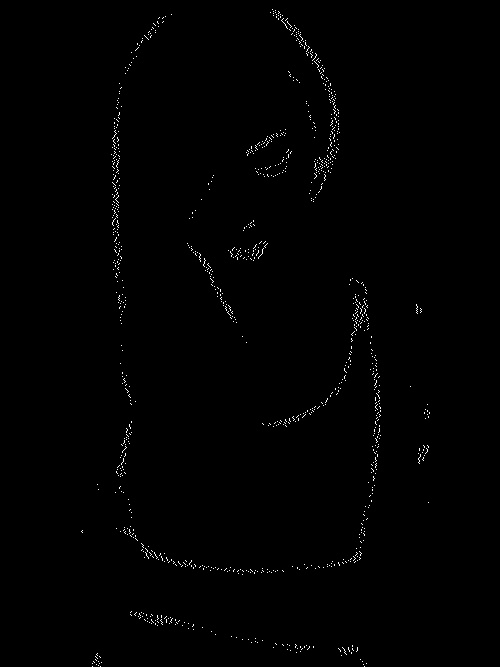
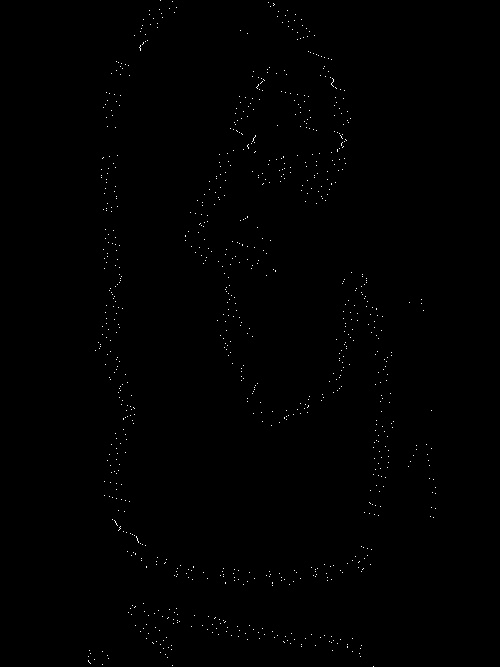
Wireframe argument added.

diff --git a/src/main/java/esz/dev/delaunay/Delaunay.java b/src/main/java/esz/dev/delaunay/Delaunay.java
@@ -13,12 +13,17 @@ public class Delaunay {
 
     private Arguments arguments;
 
+    @FunctionalInterface
+    private interface ImageCreator {
+        public void createImage(Mat image, Point[] vertices);
+    };
+
     public Delaunay(Arguments arguments) {
         this.arguments = arguments;
     }
 
     private Mat createEmptyImage(Size size, int type) {
-        return Mat.zeros(size, type);
+        return new Mat(size, type, new Scalar(255, 255, 255));
     }
 
     private Mat createEmptyGrayscaleImage(Size size) {
@@ -85,13 +90,14 @@ public class Delaunay {
         }
     }
 
-    private void drawEdgePoints(ArrayList<Point> edgePoints, Size size, boolean draw) {
-        if (draw) {
+    private void drawEdgePoints(ArrayList<Point> edgePoints, Size size) {
+        if (arguments.isShowEdgePoints()) {
             Mat image = createEmptyGrayscaleImage(size);
+            image.setTo(new Scalar(0));
             edgePoints.forEach(point -> {
                 image.put((int)point.x, (int)point.y, 255);
             });
-            Imgcodecs.imwrite("res/edgepoints.jpg", image);
+            Imgcodecs.imwrite(arguments.getOutputEdgePoints(), image);
         }
     }
 
@@ -140,7 +146,7 @@ public class Delaunay {
             triangles = goodTriangles;
         }
 
-        if (arguments.isDeleteSuperTriangle()) {
+        if (arguments.isDeleteBorder()) {
             ArrayList<Triangle> superTriangle = createInitialSuperTriangle(imageSize);
             triangles.removeIf(triangle -> {
                 for (Triangle st : superTriangle) {
@@ -157,36 +163,74 @@ public class Delaunay {
         return triangles;
     }
 
-    private Mat createGrayScaleImageFromTriangles(ArrayList<Triangle> triangles, Mat originalImage) {
-        Mat image = createEmptyGrayscaleImage(originalImage.size());
+    private Mat createImageFormTriangles(ArrayList<Triangle> triangles, Mat originalImage, ImageCreator imageCreator) {
+        Mat image = createEmptyImage(originalImage.size(), originalImage.type());
         triangles.forEach(triangle -> {
-            MatOfPoint matOfPoint = new MatOfPoint();
             Point[] vertices = triangle.getVertices();
             for (int i = 0; i < vertices.length; ++i) {
                 vertices[i] = new Point(vertices[i].y, vertices[i].x);
             }
-            matOfPoint.fromArray(vertices);
-            double[] color = originalImage.get((int) ((vertices[0].y + vertices[1].y + vertices[2].y) / 3.0),
-                    (int) ((vertices[0].x + vertices[1].x + vertices[2].x) / 3.0));
-            Imgproc.fillConvexPoly(image, matOfPoint, new Scalar(color[0]), 8, 0);
+            imageCreator.createImage(image, vertices);
         });
         return image;
     }
 
-    private Mat createColorImageFromTriangles(ArrayList<Triangle> triangles, Mat originalImage) {
-        Mat image = createEmptyImage(originalImage.size(), originalImage.type());
-        triangles.forEach(triangle -> {
+    private Mat createFinalImage(ArrayList<Triangle> triangles, Mat originalImage) {
+
+        ImageCreator colorImageCreator = (Mat image, Point[] vertices) -> {
             MatOfPoint matOfPoint = new MatOfPoint();
-            Point[] vertices = triangle.getVertices();
-            for (int i = 0; i < vertices.length; ++i) {
-                vertices[i] = new Point(vertices[i].y, vertices[i].x);
-            }
             matOfPoint.fromArray(vertices);
             double[] color = originalImage.get((int) ((vertices[0].y + vertices[1].y + vertices[2].y) / 3.0),
                     (int) ((vertices[0].x + vertices[1].x + vertices[2].x) / 3.0));
             Imgproc.fillConvexPoly(image, matOfPoint, new Scalar(color[0], color[1], color[2]), 8, 0);
-        });
-        return image;
+        };
+
+        ImageCreator grayScaleImageCreator = (Mat image, Point[] vertices) -> {
+            MatOfPoint matOfPoint = new MatOfPoint();
+            matOfPoint.fromArray(vertices);
+            double[] color = originalImage.get((int) ((vertices[0].y + vertices[1].y + vertices[2].y) / 3.0),
+                    (int) ((vertices[0].x + vertices[1].x + vertices[2].x) / 3.0));
+            Imgproc.fillConvexPoly(image, matOfPoint, new Scalar(color[0]), 8, 0);
+        };
+
+        ImageCreator colorWireFrameCreator = (Mat image, Point[] vertices) -> {
+            MatOfPoint matOfPoint = new MatOfPoint();
+            int thickness = 1;
+            matOfPoint.fromArray(vertices);
+            double[] color = originalImage.get((int) ((vertices[0].y + vertices[1].y + vertices[2].y) / 3.0),
+                    (int) ((vertices[0].x + vertices[1].x + vertices[2].x) / 3.0));
+            Imgproc.line(image, vertices[0], vertices[1], new Scalar(color[0], color[1], color[2]), thickness);
+            Imgproc.line(image, vertices[1], vertices[2], new Scalar(color[0], color[1], color[2]), thickness);
+            Imgproc.line(image, vertices[2], vertices[0], new Scalar(color[0], color[1], color[2]), thickness);
+        };
+
+        ImageCreator grayScaleWireFrameCreator = (Mat image, Point[] vertices) -> {
+            MatOfPoint matOfPoint = new MatOfPoint();
+            int thickness = 1;
+            matOfPoint.fromArray(vertices);
+            double[] color = originalImage.get((int) ((vertices[0].y + vertices[1].y + vertices[2].y) / 3.0),
+                    (int) ((vertices[0].x + vertices[1].x + vertices[2].x) / 3.0));
+            Imgproc.line(image, vertices[0], vertices[1], new Scalar(color[0]), thickness);
+            Imgproc.line(image, vertices[1], vertices[2], new Scalar(color[0]), thickness);
+            Imgproc.line(image, vertices[2], vertices[0], new Scalar(color[0]), thickness);
+        };
+
+        ImageCreator imageCreator;
+
+        if (arguments.isGrayscale()) {
+            if (arguments.isWireFrame()) {
+                imageCreator = grayScaleWireFrameCreator;
+            } else {
+                imageCreator = grayScaleImageCreator;
+            }
+        } else {
+            if (arguments.isWireFrame()) {
+                imageCreator = colorWireFrameCreator;
+            } else {
+                imageCreator = colorImageCreator;
+            }
+        }
+        return createImageFormTriangles(triangles, originalImage, imageCreator);
     }
 
     // -----------------VERBOSE output methods----------------
@@ -282,7 +326,7 @@ public class Delaunay {
 
         // get edge points from the image
         ArrayList<Point> edgePoints = getEdgePoints(detectedEdges, arguments.getThreshold(), arguments.getMaxNrOfPoints());
-        drawEdgePoints(edgePoints, originalImage.size(), true);
+        drawEdgePoints(edgePoints, originalImage.size());
         printEdgePointsDetected();
 
         // get triangles form edge points
@@ -291,11 +335,7 @@ public class Delaunay {
 
         // create final image
         Mat finalImage;
-        if (arguments.isGrayscale()) {
-            finalImage = createGrayScaleImageFromTriangles(triangles, originalImage);
-        } else {
-            finalImage = createColorImageFromTriangles(triangles, originalImage);
-        }
+        finalImage = createFinalImage(triangles, originalImage);
         try {
             Imgcodecs.imwrite(arguments.getOutput(), finalImage);
         } catch (Exception e) {

diff --git a/src/main/java/esz/dev/argparse/ArgumentParser.java b/src/main/java/esz/dev/argparse/ArgumentParser.java
@@ -102,7 +102,7 @@ public class ArgumentParser {
                         final int[] acceptedKernels = {1, 3, 5, 7};
                         int kernelSize = parseInt(args[i], arg);
                         if (Arrays.stream(acceptedKernels).anyMatch(size -> size == kernelSize)) {
-                            arguments.setsobelKernelSize(kernelSize);
+                            arguments.setSobelKernelSize(kernelSize);
                         } else {
                             throw new ArgParseException("Accepted sobel kernel sizes are 1, 3, 5, 7!");
                         }
@@ -123,6 +123,13 @@ public class ArgumentParser {
                     } else {
                         throw new ArgParseException("No argument is present after -ep!");
                     }
+                }
+                case "-wire": {
+                    arguments.setWireFrame(true);
+                    break;
+                }
+                case "-dbf": {
+                    arguments.setDeleteBorder(true);
                 }
             }
         }
@@ -148,7 +155,9 @@ public class ArgumentParser {
         System.out.print("-ea <alg>: edge detection algorithm, accepted values for <arg> are: sobel, laplacian. Default value: sobel \n");
         System.out.print("-sk <nr>: sobel kernel size, should be a value from the following set: [1, 3, 5, 7]. Default value: 3 \n");
         System.out.print("-grayscale: setting this flag, the output image will be grayscale. Default value: false \n");
-        System.out.print("-verbose: activate console logging. Default value: false \n");
+        System.out.print("-v: activate console logging. Default value: false \n");
+        System.out.print("-wire: draw only wireframe for the triangles. Default value: false \n");
+        System.out.print("-dbf: Delete border and all of the triangles which have a node on the border. Default value: false \n");
         System.out.print("\n");
         System.out.print("Examples: \n");
         System.out.print("Example of usage: java -jar delaunay.jar in.png out.png -ea laplacian -sk 5 -max 2000 -t 200 -v \n");

diff --git a/src/main/java/esz/dev/argparse/Arguments.java b/src/main/java/esz/dev/argparse/Arguments.java
@@ -6,14 +6,15 @@ public class Arguments {
     private String output = "";
     private int blurKernelSize = 35;
     private boolean verbose = false;
-    private int threshold = 200;
+    private int threshold = 150;
     private String edgeDetectionAlgorithm = "sobel";
     private int sobelKernelSize = 3;
     private int maxNrOfPoints = 1000;
     private boolean grayscale = false;
-    private boolean deleteSuperTriangle = false;
+    private boolean deleteBorder = false;
     private boolean showEdgePoints = false;
     private String outputEdgePoints = "";
+    private boolean wireFrame = false;
 
     public String getInput() {
         return input;
@@ -71,7 +72,7 @@ public class Arguments {
         return sobelKernelSize;
     }
 
-    public void setsobelKernelSize(int sobelTreshold) {
+    public void setSobelKernelSize(int sobelTreshold) {
         this.sobelKernelSize = sobelTreshold;
     }
 
@@ -87,12 +88,12 @@ public class Arguments {
         this.grayscale = grayscale;
     }
 
-    public boolean isDeleteSuperTriangle() {
-        return deleteSuperTriangle;
+    public boolean isDeleteBorder() {
+        return deleteBorder;
     }
 
-    public void setDeleteSuperTriangle(boolean deleteSuperTriangle) {
-        this.deleteSuperTriangle = deleteSuperTriangle;
+    public void setDeleteBorder(boolean deleteSuperTriangle) {
+        this.deleteBorder = deleteSuperTriangle;
     }
 
     public boolean isShowEdgePoints() {
@@ -109,5 +110,13 @@ public class Arguments {
 
     public void setOutputEdgePoints(String outputEdgePoints) {
         this.outputEdgePoints = outputEdgePoints;
+    }
+
+    public boolean isWireFrame() {
+        return wireFrame;
+    }
+
+    public void setWireFrame(boolean wireFrame) {
+        this.wireFrame = wireFrame;
     }
 }

diff --git a/src/test/java/argparse/ArgumentParserTest.java b/src/test/java/argparse/ArgumentParserTest.java
@@ -208,4 +208,30 @@ public class ArgumentParserTest {
             Assertions.fail("ArgumentParser should not throw exception!");
         }
     }
+
+    @Test
+    public void wireFrameSet() {
+        String[] args = {"in.png", "out.png", "-wire"};
+        ArgumentParser argumentParser = new ArgumentParser(args);
+        try {
+            Arguments arguments = argumentParser.process();
+            Assertions.assertNotNull(arguments);
+            Assertions.assertTrue(arguments.isWireFrame());
+        } catch (ArgParseException e) {
+            Assertions.fail("ArgumentParser should not throw exception!");
+        }
+    }
+
+    @Test
+    public void deleteBorderSet() {
+        String[] args = {"in.png", "out.png", "-dbf"};
+        ArgumentParser argumentParser = new ArgumentParser(args);
+        try {
+            Arguments arguments = argumentParser.process();
+            Assertions.assertNotNull(arguments);
+            Assertions.assertTrue(arguments.isDeleteBorder());
+        } catch (ArgParseException e) {
+            Assertions.fail("ArgumentParser should not throw exception!");
+        }
+    }
 }

diff --git a/README.md b/README.md
@@ -59,7 +59,9 @@ Example of usage: java -jar delaunay.jar in.png out.png -max 2000 -grayscale
 | --- | --- |
 | ![alt text](res/img1.jpg "Original")| ![alt text](res/img_out_gray.jpg "gray") |
 | java -jar delaunay.jar in.jpg out_color.jpg -ea laplacian -sk 5 -max 2000 -t 200 | java -jar delaunay.jar in.jpg out_color.jpg -max 1000 -t 150 |
-| ![alt text](res/img_lap_out_color.jpg "laplacian") | ![alt text](res/img_out_color.jpg "sobel")
+| ![alt text](res/img_lap_out_color.jpg "laplacian") | ![alt text](res/img_out_color.jpg "sobel") |
+| java -jar delaunay.jar in.jpg wire.jpg -wire | java -jar delaunay.jar in.jpg wire.jpg -wire -dbf |
+| ![alt text](res/wire.jpg "wireframe") | ![alt text](res/wire_dbf.jpg "wireframe_dbf") |
 ## Tips and tricks
 * Laplacian algorithm is very sensitive to noise. Try to smooth out noise by using the right kernel size and sigma values.
 * The number of the triangles is determined by the number of the *-max* points. This will also influence the average area size of the triangles.
